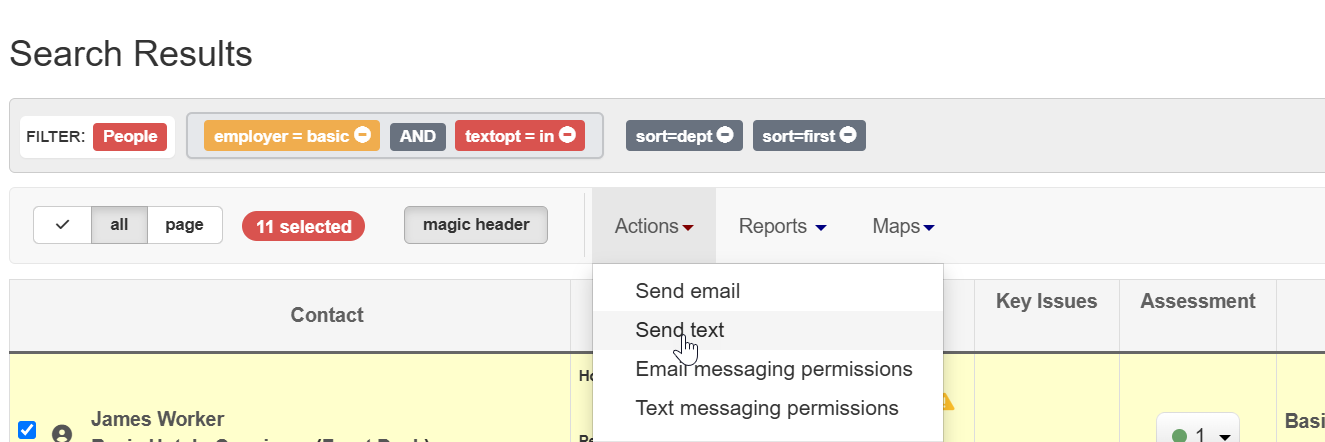
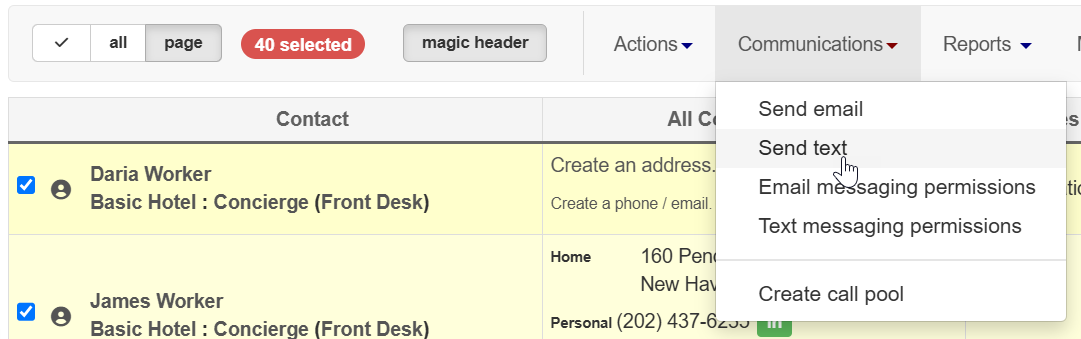
Communication menu image updates

diff --git a/docs/viewing-search-results-and-edit/bulk-actions/bulk-actions-list.md b/docs/viewing-search-results-and-edit/bulk-actions/bulk-actions-list.md
@@ -6,22 +6,31 @@ sidebar_label: Actions - Add to list/Remove from list
 # Action: Add to list/Remove from list
 * * *
 ## Add contacts to a tag list
-One of the most common bulk actions applied to search results is adding contacts to a tag list. **Tag lists** give you an easy way to manually tag individuals whom you want to track as a group for any reason (for instance your key volunteers, or the people you need to follow up with this month). You can learn more about setting up and using this feature in the [Tag Lists](https://help.broadstripes.com/help-articles/admin-tools/data-tools-admin/tag-lists/) overview article.
+One of the most common bulk actions applied to search results is adding contacts to a tag list. **Tag lists** give you an easy way to manually tag individuals whom you want to track as a group for any reason (for instance your key volunteers, or the people you need to follow up with this month). You can learn more about setting up and using this feature in the [Tag Lists](https://help.broadstripes.com/help-articles/admin-tools/data-tools-admin/tag-lists/) overview article.
 Once you know which contacts you want to add to your list, you're ready. This article will explain how to create a new list and add contacts. It will also take you through steps to edit the list and add or remove people later.
 ## Add people to a tag list
-1. From the **Search Results** page, [select the contacts](https://help.broadstripes.com/help-articles/using-broadstripes/working-with-search-results/selecting-deselecting-contacts/) you want to add to your list. (If you need help running a search, check out the [Use the Quick Search](https://help.broadstripes.com/help-articles/using-broadstripes/get-started/use-quick-search/), [Search by workplace](https://help.broadstripes.com/help-articles/using-broadstripes/search/search-by-workplace/), or [Create and save a search](https://help.broadstripes.com/help-articles/using-broadstripes/customize/create-and-save-a-search/) articles.)
-1. With the contacts selected, go to the **Actions** drop-down menu and choose **Add to list**.
-1. You can choose to add the contacts to one of your existing personal or shared lists, or add them to a new list. For this example, we'll choose to **add a new list.**
-1. **Enter a name for the new list** and indicate whether you want the share the list with others (**Shared**), or have it visible only to you (**Personal**). Click **Add** to create the list and automatically add the contacts you selected in the previous step.
-1. You'll see a pop-up note that your contacts have been added to the new list.
+1. From the **Search Results** page, [select the contacts](../selecting-deselecting-contacts/index.md) you want to add to your list. (If you need help running a search, check out the [Use the Quick Search](../search/quick-search.md), [Search by workplace](../search/search-by-workplace.md), or the articles in the [Search section](../search/index.md).)
+![Select contacts](/img/viewing-search-results-and-edit/9326638-ListsAddContacts.png)
+2. With the contacts selected, go to the **Actions** drop-down menu and choose **Add to list**.
+![Add to list](/img/viewing-search-results-and-edit/192b12f-ListsAddDropDown.png)
+3. You can choose to add the contacts to one of your existing personal or shared lists, or add them to a new list. For this example, we'll choose to **add a new list.**
+![Add a new list](/img/viewing-search-results-and-edit/20eae2f-ListsAddDialog.png)
+4. **Enter a name for the new list** and indicate whether you want the share the list with others (**Shared**), or have it visible only to you (**Personal**). Click **Add** to create the list and automatically add the contacts you selected in the previous step.
+![Name the new list and save](/img/viewing-search-results-and-edit/1c02685-ListsNewAddDialog.png)
+5. You'll see a notification in the top right corner of the page that your contacts have been added to the new list. 
+![Add to list notification](/img/viewing-search-results-and-edit/374da94-Lists2Saved.png)
+
 ## Remove people from a tag list
-1. Start by clicking the **Lists** link on the navigation panel.
-1. Broadstripes will open the **Lists** page where you'll see all of your active lists (both shared and personal).
-1. Clicking on the number in the **\# of Contacts** column will open a page showing all the members of that list.
-1. From the list that appears, **check** any people who you want to remove from your list.
-You don't have to start from the **Lists** page to remove a person from a tag list. You can check any person displayed on _any_ search results page, then remove them using the same steps outlined below.
-1. From the **Actions** drop-down menu, select **Remove from list**.
-####   Do not "Delete" a contact by mistake
-Remember that you need to choose **Remove from list** from the **Actions** menu. Choosing **Delete** from this menu by mistake will permanently erase the contact from your _entire project_.
-1. Choose the tag list you want to remove the contacts from and click the **Remove** button.
-1. You'll see a pop-up note confirming that your contacts have been removed from the list.
+
+1. Start by clicking the **Tag lists** link on the navigation panel.
+![Tag lists](/img/viewing-search-results-and-edit/e63d525-ListsNav-1.png)
+2. Broadstripes will open the**Lists**page where you'll see all of your tag lists (both shared and personal).
+![Tag lists table](/img/viewing-search-results-and-edit/e24a13d-ListLists2-1.png)
+3. Clicking on the number in the **\# of Contacts** column will open a page showing all the members of that list.
+4. From the list that appears, **check** any people who you want to remove from your list.
+You don't have to start from the **Lists** page to remove a person from a tag list. You can check any person displayed on_ any_ search results page, then remove them using the same steps outlined below.
+5. From the **Actions** drop-down menu, select **Remove from list**.
+#### Do not "Delete" a contact by mistake
+Remember that you need to choose**Remove from list**from the **Actions** menu. Choosing**Delete**from this menu by mistake will permanently erase the contact from your _entire project_.
+6. Choose the tag list you want to remove the contacts from and click the **Remove** button.
+7. You'll see a pop-up note confirming that your contacts have been removed from the list.

diff --git a/docs/communications/text-messaging-opted-in-permissions.md b/docs/communications/text-messaging-opted-in-permissions.md
@@ -1,21 +1,7 @@
 ---
 title: "Text messaging permissions - opt in a cell phone (+video)"
-date: "2019-11-06"
-categories: 
-  - "messaging"
-  - "working-with-contact-records"
-tags: 
-  - "cell"
-  - "email"
-  - "mobile"
-  - "opt-in"
-  - "opt-out"
-  - "opted"
-  - "permissions"
-  - "sms"
-  - "text"
-  - "text-messaging"
-  - "using-broadstripes"
+sidebar_label: Text messaging permissions - opt in a cell phone
+sidebar_position: 5
 ---
 
 
@@ -29,22 +15,19 @@ Learn all about **opting in** a cell phone and other aspects of Broadstripes tex
 
 [![](images/Messaging_thumb_320x200-1.png)](https://vimeo.com/370396179)
 
-### Set up messaging and send a text blast
 
+### Opt in cell phone numbers for text messaging
 
-
-## Opt in cell phone numbers for text messaging
-
-This article only covers one step in the process of sending text messages with Broadstripes – how to mark workers' cell phone numbers as **"Opted in."** Check out the full [Text messaging article](https://help.broadstripes.com/help-articles/using-broadstripes/working-with-search-results/text-messaging/) if you'd like to learn more about how to send SMS text messages using Broadstripes.
+This article only covers one step in the process of sending text messages with Broadstripes – how to mark workers' cell phone numbers as **"Opted in."** Check out the full [Text messaging article](https://help.broadstripes.com/help-articles/using-broadstripes/working-with-search-results/text-messaging/) if you'd like to learn more about how to send SMS text messages using Broadstripes.
 
 ### Opt in a single worker's cell phone
 
-1. From the **Search Results** page, hover over the   **looking glass icon** next to the worker's name.![](images/Text_Send_1Msg.png)
-2. Click in the Contact area to edit her phone information.![](images/OptinContactArea.png)
+1. From the **Search Results** page, hover over the **info icon** next to the worker's name.![Hover by name for info icon](/img/communications/info-icon-hover.png)
+2. Click in the Contact area to edit her phone information.![Optin Contact Area](/img/communications/optin-contact-area.png)
 3. Click the **+Add phone/email button** to add a new phone number, or just begin typing to update an existing number.
 4. Select **"Cell Phone"** as the phone type.![](images/OptinContactCell.png)
 5. Choose the appropriate opted in reason under the **"Opted In"** drop-down menu.![](images/OptinContactReason.png)
-6. Scroll down and click **Save**.  
+6. Scroll down and click **Save**.  
     ![](images/OptinContactSave.png)
 7. The worker has now been opted in to receive SMS text messages using Broadstripes. Check out the full [Text messaging article](https://help.broadstripes.com/help-articles/using-broadstripes/working-with-search-results/text-messaging/) if you'd like to learn about how to send SMS text messages.
 
@@ -55,6 +38,4 @@ This article only covers one step in the process of sending text messages with B
 3. Under **Actions**, choose “**Text Messaging Permissions.**”![](images/OptinContactAction.png)
 4. Choose an opted in reason from the **"Opted In" drop-down** menu.![](images/OptinContactActionReason.png)
 5. Click **Update** to save.
-6. All of the selected workers have now been opted in to receive SMS text messages from Broadstripes. Check out the full [Text messaging article](https://help.broadstripes.com/help-articles/using-broadstripes/working-with-search-results/text-messaging/) if you'd like to learn about how to send SMS text messages.
-
-\[/et\_pb\_text\]\[/et\_pb\_column\]\[/et\_pb\_row\]\[/et\_pb\_section\]
+6. All of the selected workers have now been opted in to receive SMS text messages from Broadstripes. Check out the full [Text messaging article](https://help.broadstripes.com/help-articles/using-broadstripes/working-with-search-results/text-messaging/) if you'd like to learn about how to send SMS text messages.

diff --git a/docs/viewing-search-results-and-edit/bulk-actions/bulk-actions-send-sms-text-message.md b/docs/viewing-search-results-and-edit/bulk-actions/bulk-actions-send-sms-text-message.md
@@ -26,7 +26,7 @@ If you're not sure how to add a new cell phone number or update an existing numb
 In this example, we'll send a text message to every opted in worker at Basic Hotel asking them to try to build support in their respective departments. Here's how:
 1. First, we'll run a search for people who work at **Basic Hotel**. (If you need help running a search, check out the [Search section](../search/index.md).)
 2. From the **Search Results** page, we'll [select all the workers](../selecting-deselecting-contacts/index.md). At the time this article was written, you were allowed to send up to 10,000 messages at once. Check with your admin to find out if that’s changed.![](/img/viewing-search-results-and-edit/Text_Send_Select_Workers.png)
-3. Under **Actions**, we’ll choose “**Text.**”![](/img/viewing-search-results-and-edit/Text_Send_Actions.png)
+3. Under the **Communications** drop-down menu, we’ll choose “**Send text.**”![](/img/viewing-search-results-and-edit/Text_Send_Actions.png)
 4. Next, **compose a short text message** (160-characters or fewer is considered a standard SMS message).
 5. Broadstripes makes it easy to personalize the message with dynamic [merge fields](../communications/using-merge-fields.md) like "**First Name**" or "**Department**." To use a merge field, just choose it from the **drop-down menu** and it will be inserted into the body of your text message.![](/img/viewing-search-results-and-edit/Text_Send_Dynamic_Merge.png)
 6. Below the message, you'll see the **virtual phone** number you're sending from. If you have more than one number assigned to you, you can choose which to use from the **drop-down menu**.![](/img/viewing-search-results-and-edit/Text_Send_VirtPhone.png)

diff --git a/docs/viewing-search-results-and-edit/index.md b/docs/viewing-search-results-and-edit/index.md
@@ -36,5 +36,17 @@ import DocCardList from '@theme/DocCardList';
     href: '../viewing-search-results-and-edit/bulk-actions/bulk-actions-send-email',
     label: 'Bulk actions - Send email',
     description: 'Bulk actions - Send email'
+  },
+  {
+    type: 'link',
+    href: '../viewing-search-results-and-edit/bulk-actions/bulk-actions-send-sms-text-message',
+    label: 'Bulk actions - Send SMS/Text message',
+    description: 'Bulk actions - Send SMS/Text message'
+  },
+  {
+    type: 'link',
+    href: '../viewing-search-results-and-edit/bulk-actions/bulk-actions-list',
+    label: 'Bulk actions - Add to list/Remove from list',
+    description: 'Bulk actions - Add to list/Remove from list'
   }
 ]} />

diff --git a/wordpress-pull/convert/bulk-actions-send-sms-text-message.md b/wordpress-pull/convert/bulk-actions-send-sms-text-message.md
@@ -1,11 +1,10 @@
 ---
-title: "Actions - Text (send bulk SMS messages)"
+title: "Communications - Text (send bulk SMS messages)"
 date: "2021-01-14"
 categories: 
   - "working-with-search-results"
 ---
 
-\[et\_pb\_section fb\_built="1" \_builder\_version="3.22"\]\[et\_pb\_row \_builder\_version="3.25" background\_size="initial" background\_position="top\_left" background\_repeat="repeat"\]\[et\_pb\_column type="4\_4" \_builder\_version="3.25" custom\_padding="|||" custom\_padding\_\_hover="|||"\]\[et\_pb\_text \_builder\_version="4.4.8"\]
 
 # Action: Text
 
